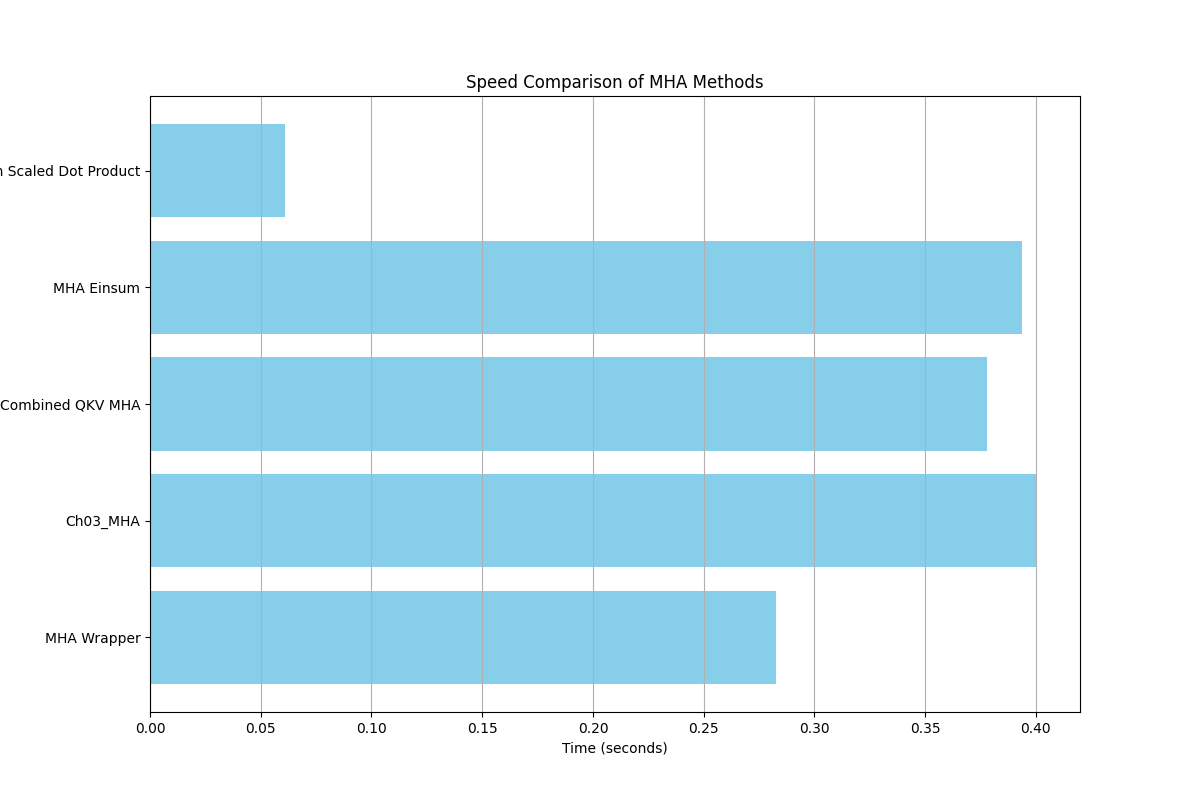
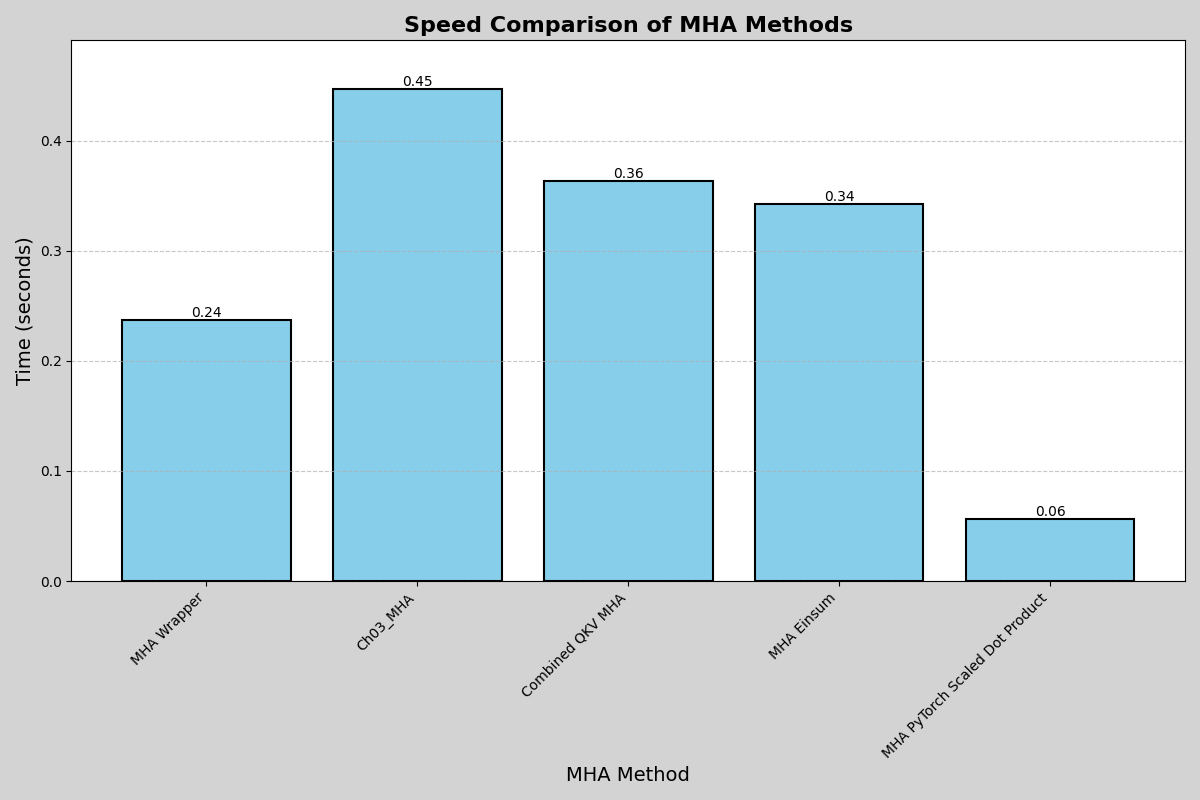
speed comparison method

diff --git a/multi_head_attention_comparisons/plots.py b/multi_head_attention_comparisons/plots.py
@@ -94,11 +94,33 @@ def plot_speed_comparison(speed_data):
     methods = list(speed_data.keys())
     times = [speed_data[method] for method in methods]
 
-    ax.barh(methods, times, color='skyblue')
-    ax.set_title('Speed Comparison of MHA Methods')
-    ax.set_xlabel('Time (seconds)')
-    ax.set_ylabel('MHA Method')
-    ax.grid(axis='x')
+    bars = ax.bar(methods, times, color='skyblue', edgecolor='black', linewidth=1.5)
+
+    # Add labels on top of the bars
+    for bar in bars:
+        yval = bar.get_height()
+        ax.text(bar.get_x() + bar.get_width() / 2, yval, f'{yval:.2f}',
+                ha='center', va='bottom', fontsize=10, color='black')
+
+    # Set titles and labels with a larger font size
+    ax.set_title('Speed Comparison of MHA Methods', fontsize=16, fontweight='bold')
+    ax.set_ylabel('Time (seconds)', fontsize=14)
+    ax.set_xlabel('MHA Method', fontsize=14)
+
+    # Rotate x-axis labels for better readability
+    plt.xticks(rotation=45, ha='right')
+
+    # Enhance gridlines
+    ax.grid(axis='y', linestyle='--', alpha=0.7)
+    ax.set_ylim(0, max(times) * 1.1)  # Add some space above the highest bar
+
+    # Add a background color
+    fig.patch.set_facecolor('lightgrey')
+
+    # Add a tight layout for better spacing
+    plt.tight_layout()
+
+    # Save the plot
     save_plot(fig, 'speed_comparison_plot.png')
 
 
